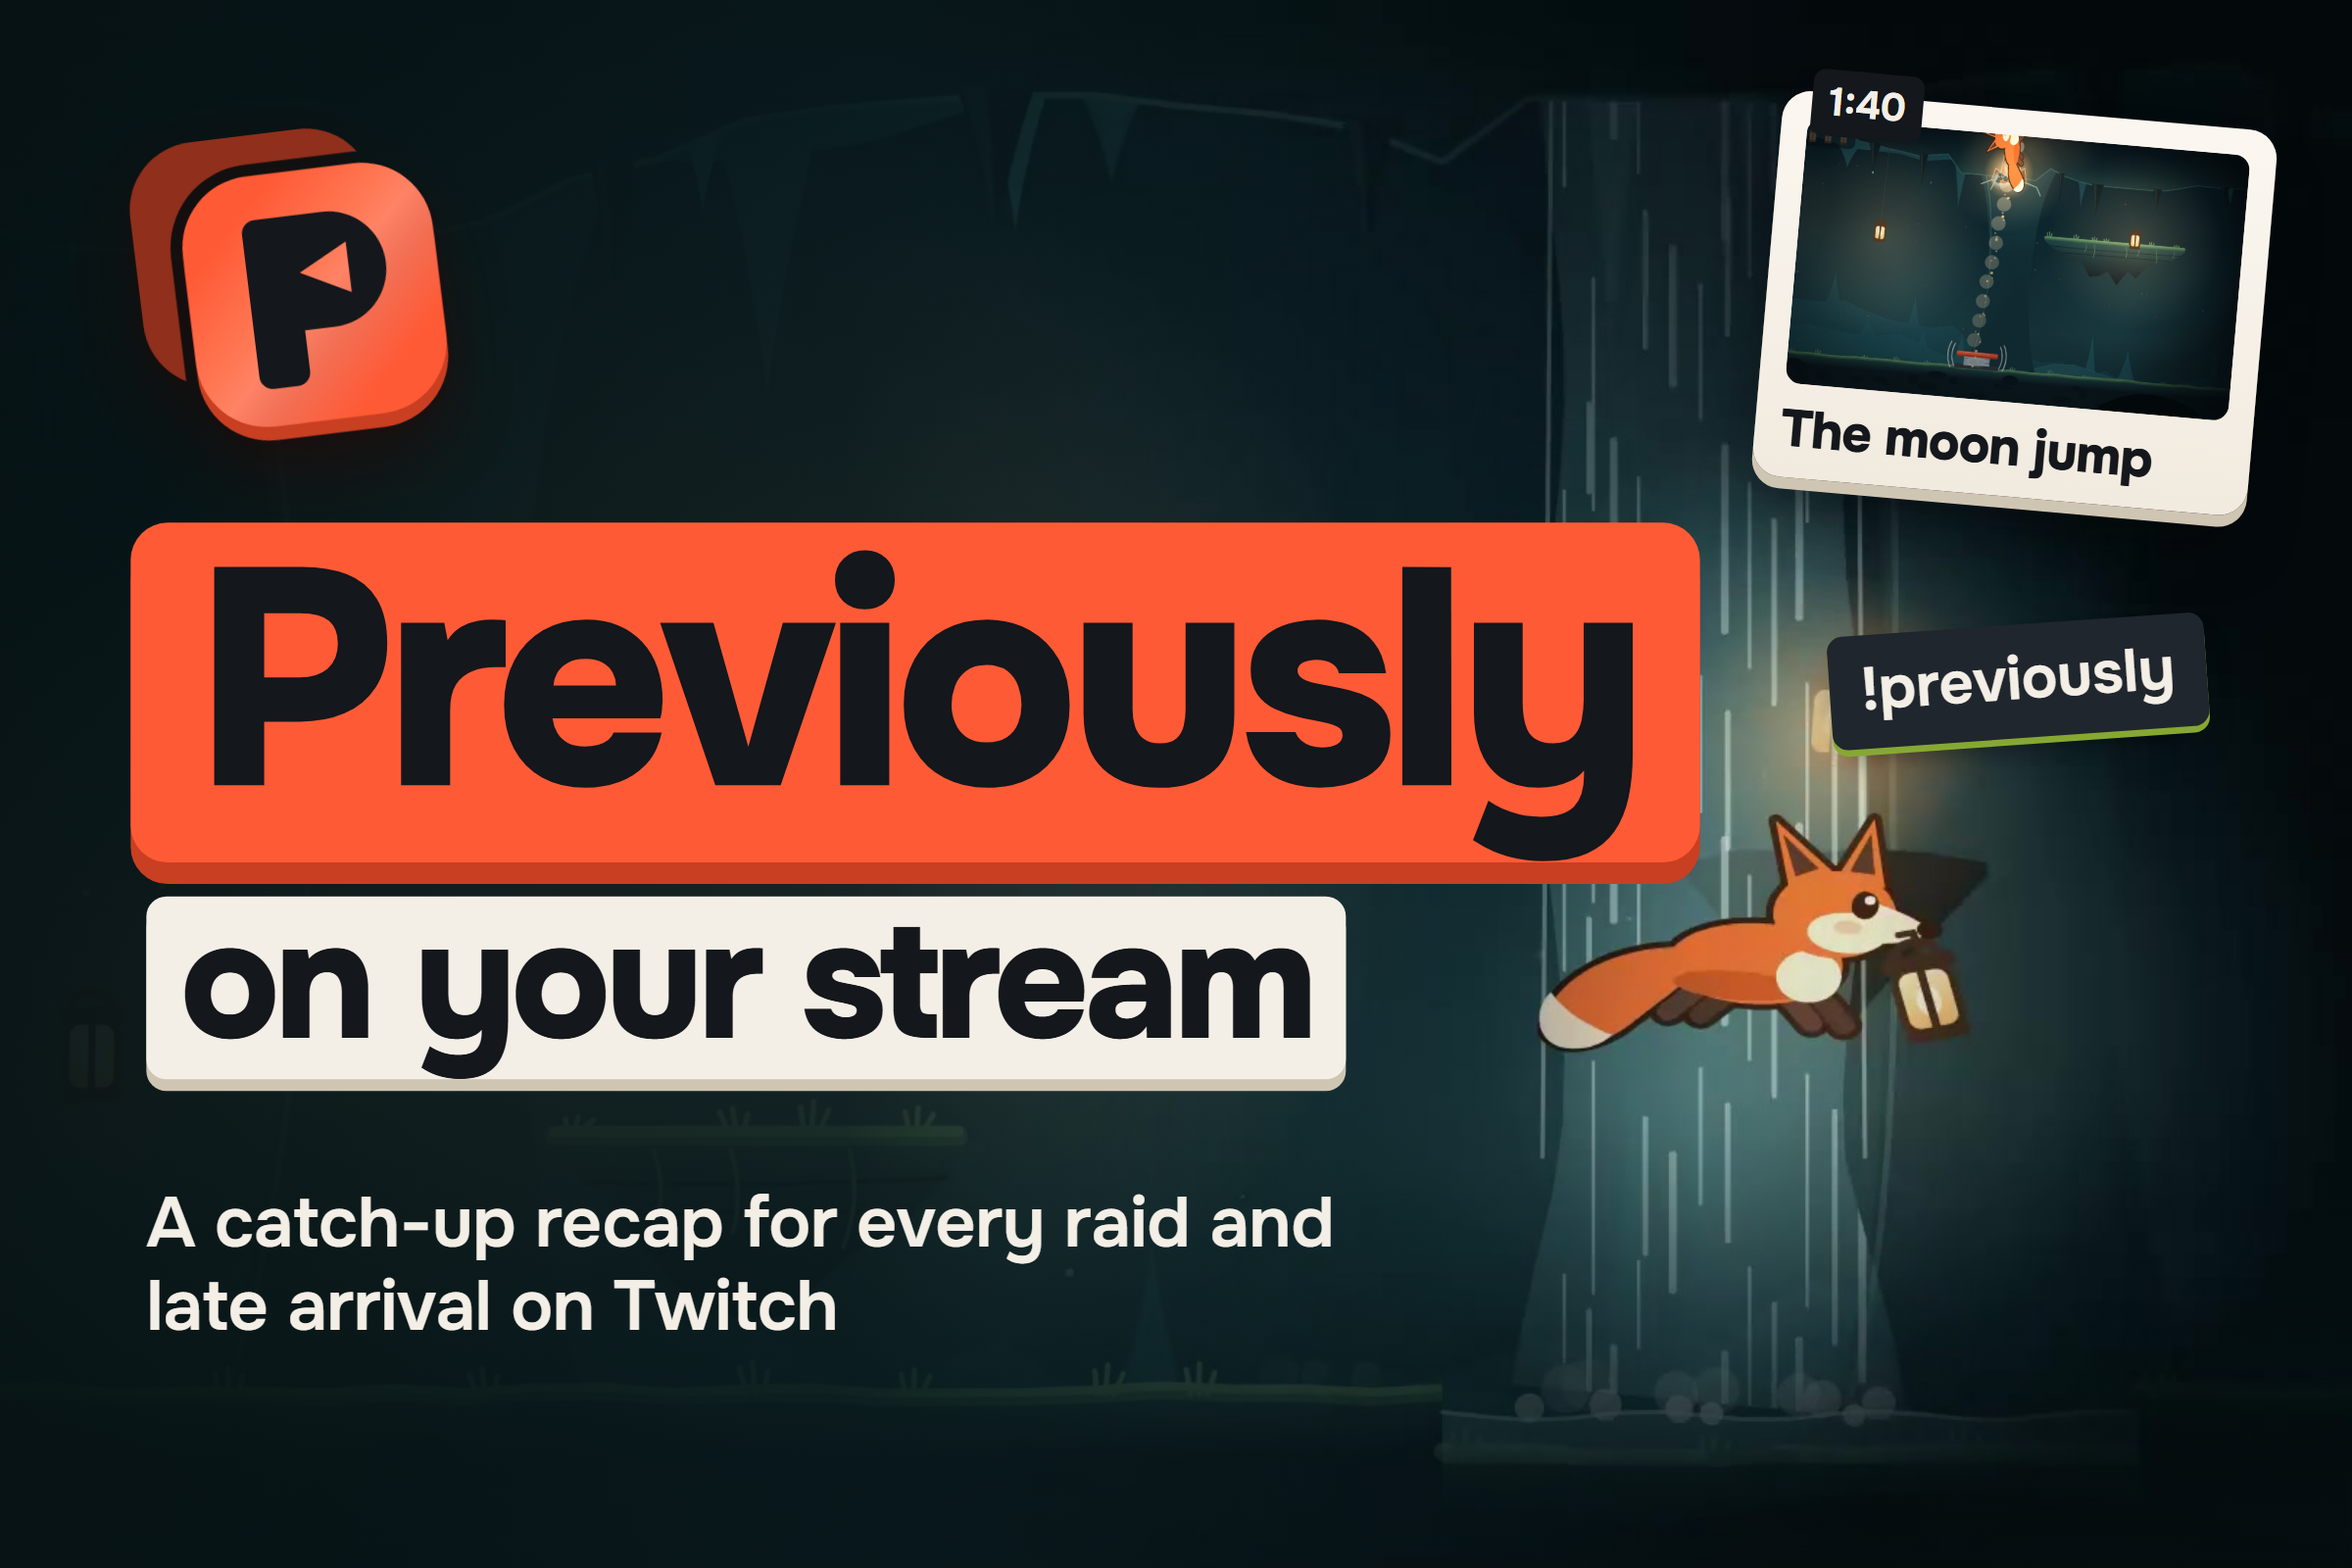
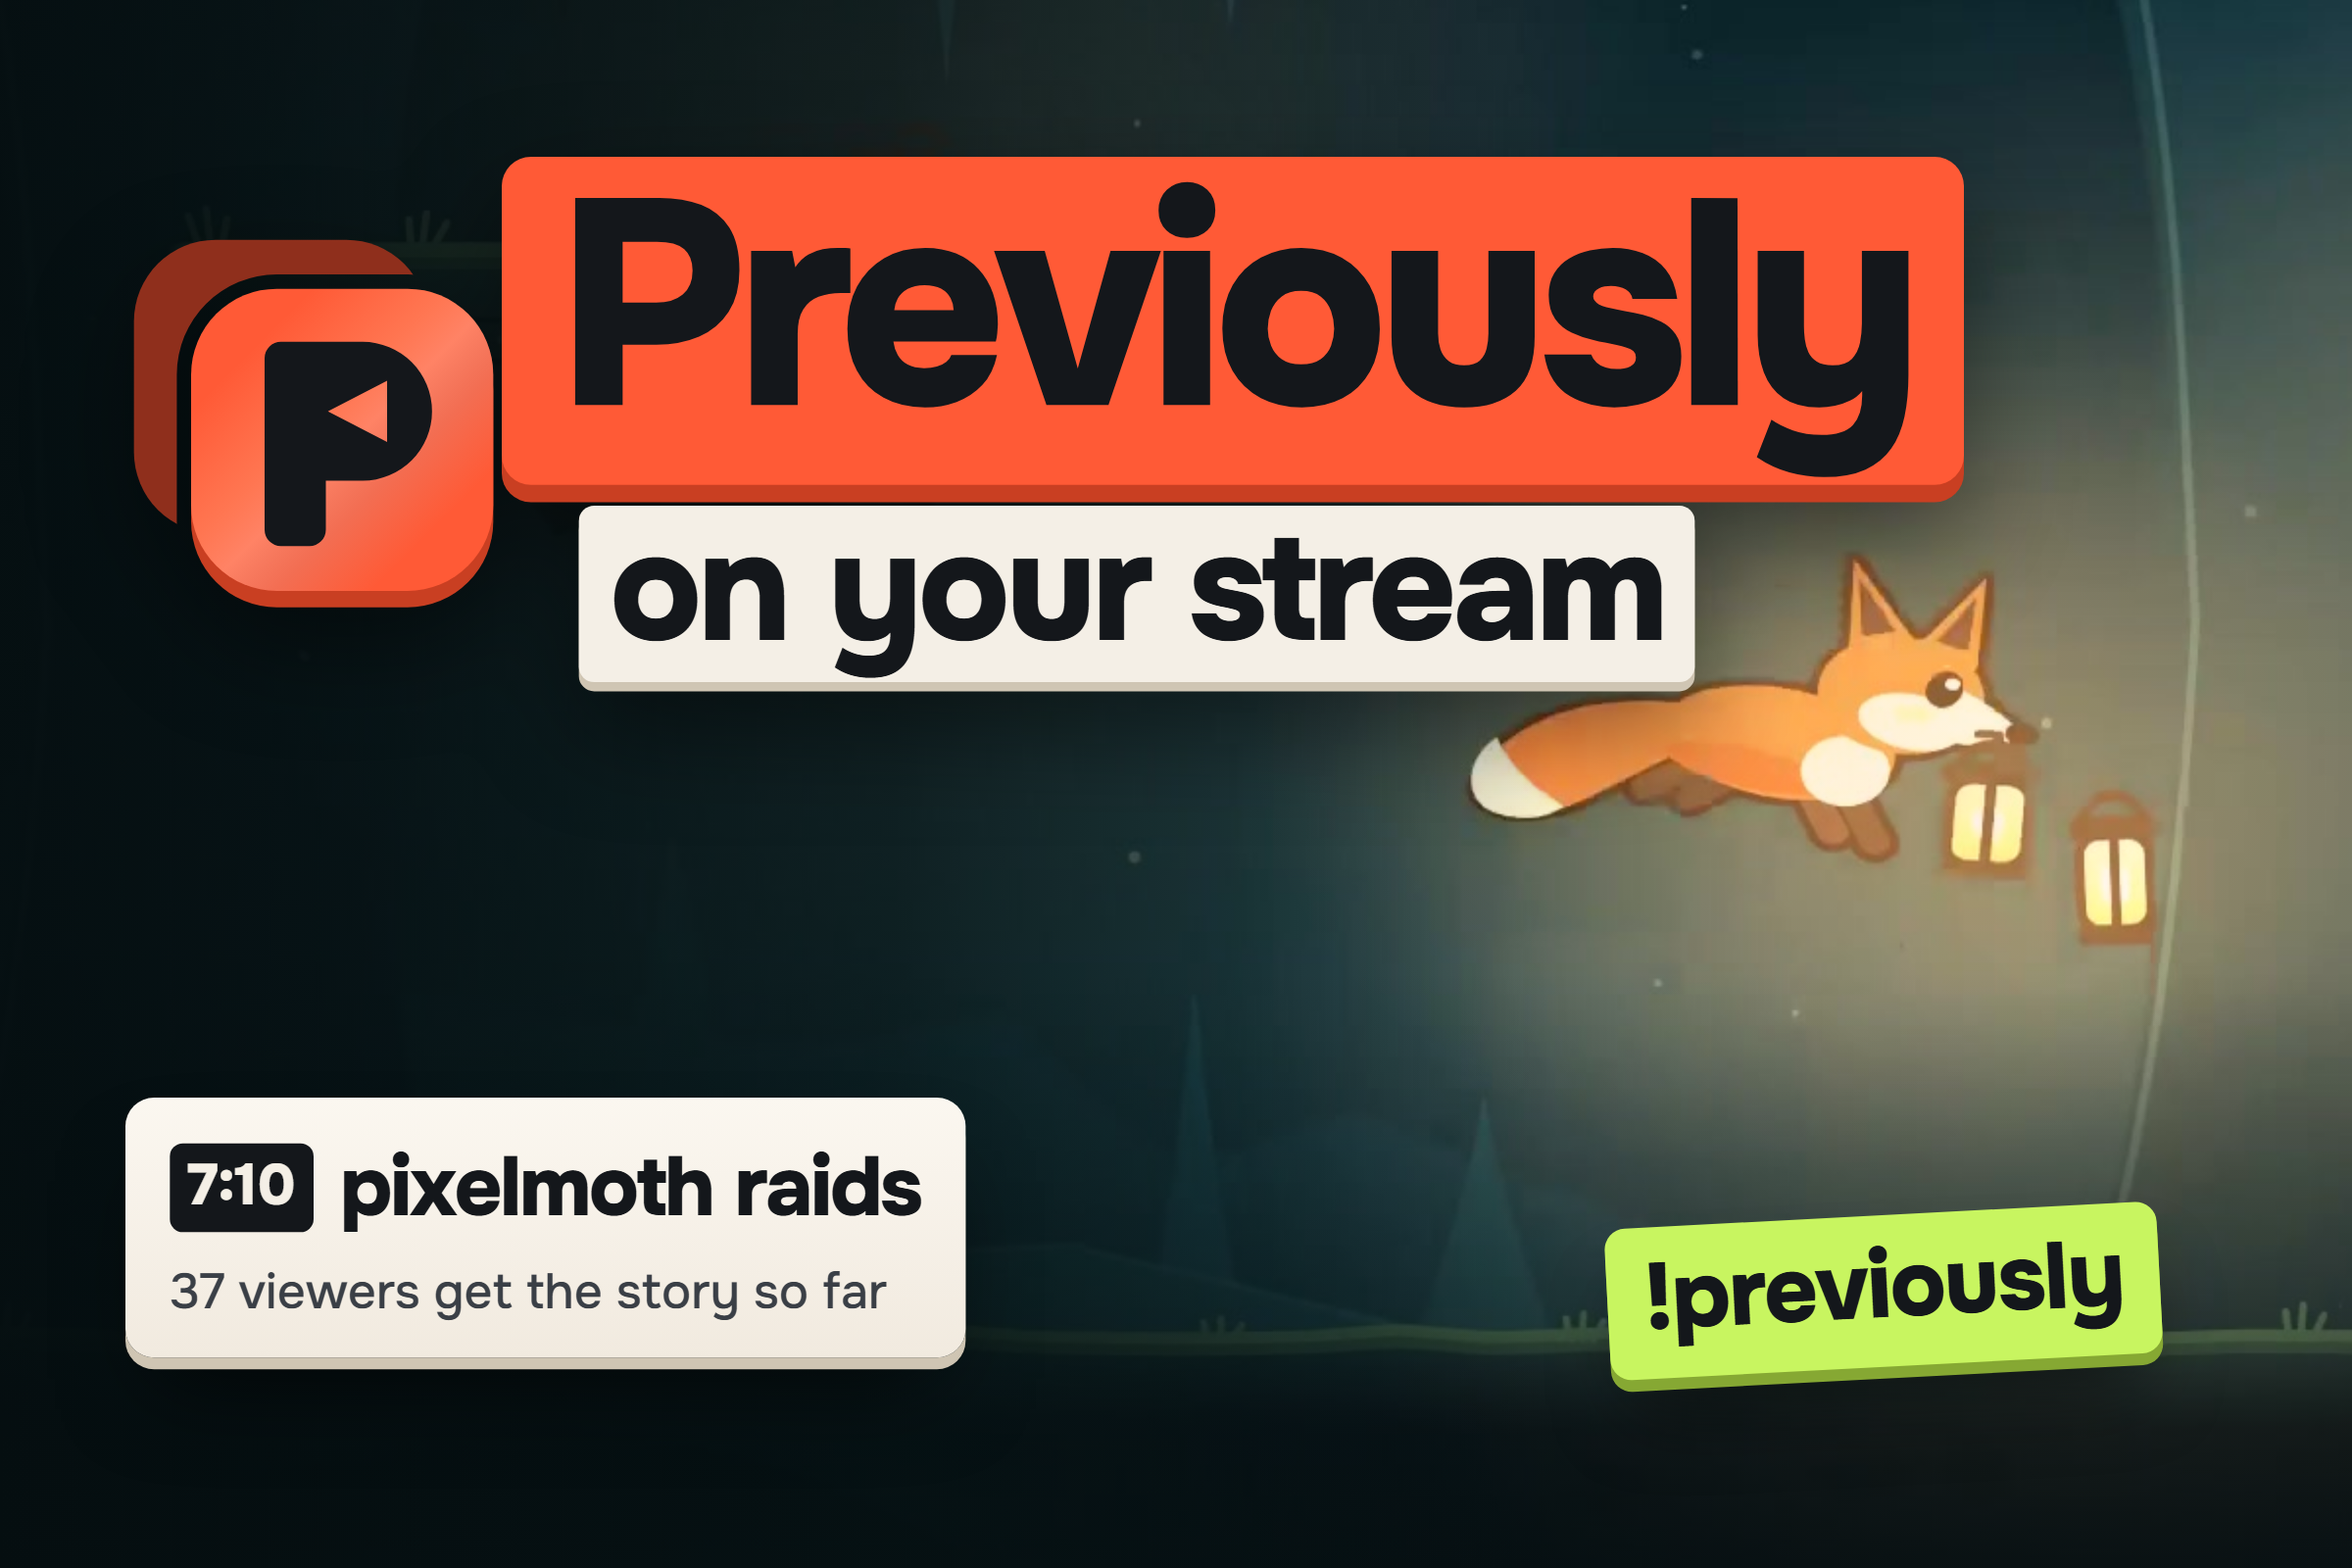
Stronger Devpost cover built in code

diff --git a/docs/gallery/source/deck.html b/docs/gallery/source/deck.html
@@ -139,27 +139,41 @@ img { display: block; }
   linear-gradient(160deg, #1D252B 0%, #14191E 55%, #0F1317 100%); }
 .ctl.p { background: var(--paper); color: var(--ink); box-shadow: 0 5px 0 var(--paper-side); }
 .mlabel { transform: translateX(-50%); font-size: 26px; white-space: nowrap; }
+
+.lockup { position: absolute; display: flex; align-items: center; gap: 0; filter: drop-shadow(0 30px 40px rgba(0,0,0,.45)); }
+.lk1 { display: inline-block; background: var(--verm); color: var(--ink); font-weight: 800; letter-spacing: -.04em; line-height: 1; padding: .02em .18em .1em; border-radius: .1em; box-shadow: 0 .06em 0 var(--verm-side); }
+.lk2 { display: inline-block; background: var(--paper); color: var(--ink); font-weight: 800; letter-spacing: -.03em; line-height: 1; padding: .04em .2em .1em; border-radius: .1em; margin: .14em 0 0 .5em; box-shadow: 0 .06em 0 var(--paper-side); }
+.capcard { position: absolute; background: linear-gradient(180deg,#FBF7F0,#F1EADF); color: var(--ink); border-radius: 22px; padding: 28px 34px 26px; box-shadow: 0 9px 0 var(--paper-side), 0 40px 70px -24px rgba(0,0,0,.7); }
+.capcard .tc, .tvcap .tc { display: inline-block; background: var(--ink); color: var(--paper); font-weight: 800; font-size: 44px; padding: 4px 14px 8px; border-radius: 10px; margin-right: 20px; vertical-align: middle; font-variant-numeric: tabular-nums; }
+.capcard b { font-size: 64px; font-weight: 800; letter-spacing: -.03em; vertical-align: middle; }
+.capcard p { font-size: 38px; margin-top: 14px; color: #3A3F46; font-weight: 500; }
+.tagl { background: var(--lime); color: var(--ink); font-weight: 800; font-size: 72px; letter-spacing: -.02em; padding: 8px 28px 16px; border-radius: 16px; box-shadow: 0 9px 0 var(--lime-side), 0 40px 60px -20px rgba(0,0,0,.6); }
+.tv { position: absolute; border-radius: 30px; overflow: hidden; background: #000; box-shadow: 0 0 0 14px #14171B, 0 26px 0 14px #07080A, 0 90px 140px -30px rgba(70,10,0,.75); }
+.tvlock { position: absolute; left: 34px; bottom: 150px; display: flex; align-items: center; gap: 10px; }
+.tvlock img { width: 86px; height: 86px; }
+.tvlock .a { display:inline-block; background: var(--verm); color: var(--ink); font-weight: 800; font-size: 60px; letter-spacing:-.03em; padding: 0 12px 6px; border-radius: 8px; line-height:1.05; }
+.tvlock .b { display:inline-block; background: var(--paper); color: var(--ink); font-weight: 800; font-size: 34px; padding: 2px 10px 6px; border-radius: 6px; margin: 6px 0 0 30px; }
+.tvcap { position: absolute; left: 34px; bottom: 36px; background: var(--paper); border-radius: 14px; padding: 16px 24px 18px; color: var(--ink); }
+.tvcap b { font-size: 52px; font-weight: 800; letter-spacing: -.03em; vertical-align: middle; }
 </style>
 </head>
 <body>
 
 <!-- ============ THUMBNAIL ============ -->
-<section class="slide cv-cave" id="thumbnail" data-out="thumbnail" data-scale="1.3333333">
-  <img class="abs" src="assets/game/game-waterfall.jpg" style="left:-330px; top:0; width:2134px; height:1200px; object-fit:cover;">
-  <div class="abs" style="inset:0; background: linear-gradient(90deg, rgba(6,18,20,.95) 0%, rgba(8,24,27,.86) 36%, rgba(8,24,27,.25) 62%, rgba(8,24,27,0) 80%), linear-gradient(0deg, rgba(6,18,20,.55), transparent 30%);"></div>
-  <div class="card" style="left:1352px; top:84px; width:380px; padding:20px 20px 16px; transform: rotate(5deg);">
-    <span class="tab" style="font-size:30px;">1:40</span>
-    <div style="height:204px; border-radius:12px; overflow:hidden; background:#000;"><img src="../../../public/demo/foxlight/clip-moon.jpg" style="width:100%; height:100%; object-fit:cover;"></div>
-    <h3 style="font-size:40px; margin-top:14px;">The moon jump</h3>
+<section class="slide" id="thumbnail" data-out="thumbnail" data-scale="1.3333333" style="background:#0B1C1F;">
+  <img class="abs" src="assets/game/game-leap.jpg" style="left:-10px; top:-415px; width:2880px; height:1620px; object-fit:cover;">
+  <div class="abs" style="inset:0; background:
+    radial-gradient(640px 480px at 78% 47%, rgba(255,190,110,.22), transparent 70%),
+    linear-gradient(90deg, rgba(5,14,16,.92) 0%, rgba(6,18,20,.70) 38%, rgba(6,18,20,0) 66%),
+    linear-gradient(0deg, rgba(5,14,16,.85) 0%, rgba(5,14,16,0) 38%);"></div>
+  <div class="lockup" style="left:90px; top:120px;">
+    <img src="../../../public/brand/mark-large.svg" style="width:300px; height:300px; margin-right:-6px;">
+    <div><div class="lk1" style="font-size:224px;">Previously</div><div class="lk2" style="font-size:118px;">on your stream</div></div>
   </div>
-  <div class="abs" style="left:1400px; top:478px; transform: rotate(-4deg);"><span class="chip" style="font-size:46px; padding:12px 24px 16px;">!previously</span></div>
-  <img class="mark" src="../../../public/brand/mark-large.svg" style="left:96px; top:90px; width:250px; transform: rotate(-7deg);">
-  <div class="abs" style="left:100px; top:400px;">
-    <div class="h1 plate v" style="font-size:236px;">Previously</div><br>
-    <div class="h1 plate p" style="font-size:128px; margin-top:26px; margin-left:12px;">on your stream</div>
-  </div>
-  <div class="abs lead" style="left:112px; top:905px; width:980px; font-size:54px; font-weight:600; line-height:1.18; color:var(--paper);">A catch-up recap for every raid and late arrival on Twitch</div>
+  <div class="capcard" style="left:96px; top:840px;"><span class="tc">7:10</span><b>pixelmoth raids</b><p>37 viewers get the story so far</p></div>
+  <span class="abs tagl" style="left:1230px; top:930px; transform:rotate(-3deg);">!previously</span>
 </section>
+
 
 <!-- ============ 01 LATE ARRIVALS ============ -->
 <section class="slide cv-teal" id="late-arrivals" data-out="01-late-arrivals">
